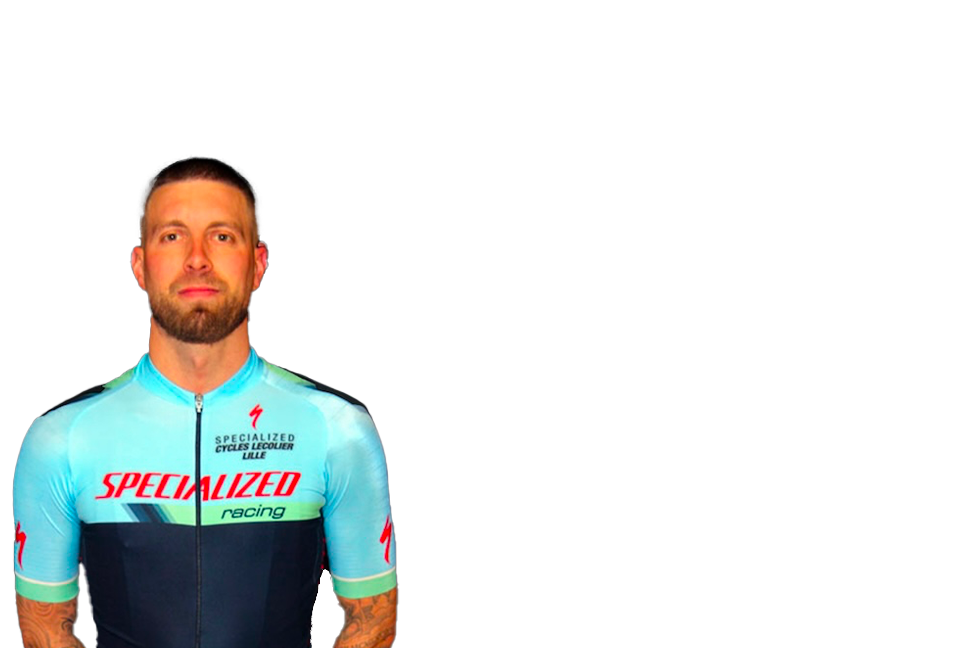
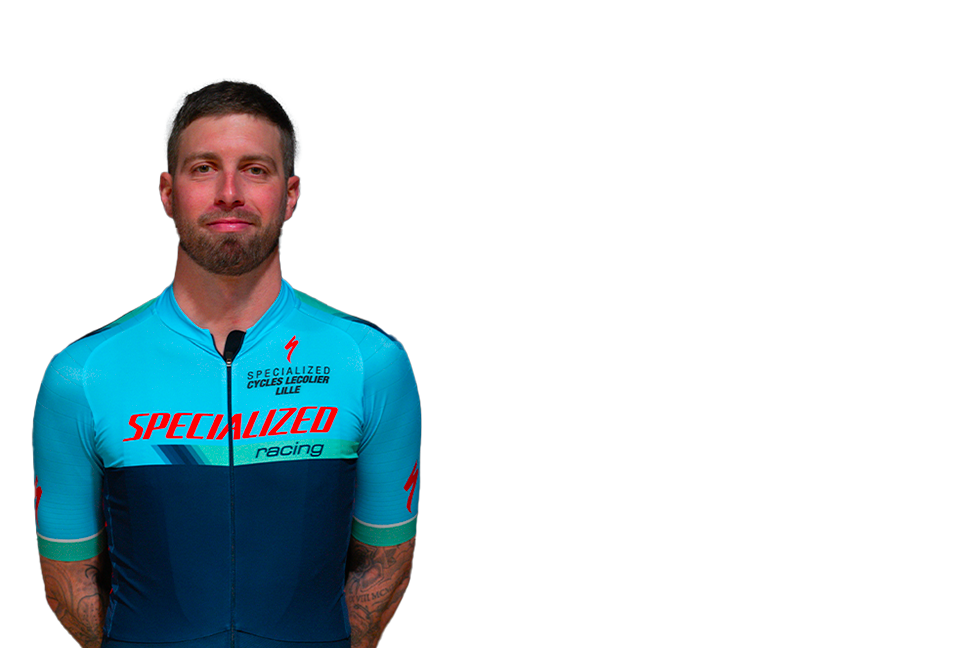
New coureur pictures

Changed region(s): [[0.0, 0.1235, 0.4321, 1.0]]

diff --git a/_coureurs/ORBIERAXEL.md b/_coureurs/ORBIERAXEL.md
@@ -4,10 +4,10 @@ layout: coureurs-single
 title: ORBIER AXEL
 name: ORBIER AXEL
 sports:  Cylo-Cross
-image: assets/imgs/team/small/empty.png
+image: assets/imgs/team/small/orbier_axel.png
 strava: https://www.strava.com/athletes/20939373
 # full details
-large: assets/imgs/team/large/empty.png
+large: assets/imgs/team/large/orbier_axel.png
 
 live_preview: https://bslthemes.com
 date_of_birth: 14/08/1996

diff --git a/_coureurs/DERASSEPATRICK.md b/_coureurs/DERASSEPATRICK.md
@@ -3,9 +3,9 @@
 layout: coureurs-single
 title: DERASSE PATRICK
 name: DERASSE PATRICK
-image: assets/imgs/team/small/empty.png
+image: assets/imgs/team/small/derasse_patrick.png
 
-large: assets/imgs/team/large/empty.png
+large: assets/imgs/team/large/derasse_patrick.png
 
 strava: https://www.strava.com/athletes/104406709
 gallery:

diff --git a/_coureurs/DEFEROLIVIER.md b/_coureurs/DEFEROLIVIER.md
@@ -4,8 +4,8 @@ layout: coureurs-single
 title: DEFER OLIVIER
 name: DEFER OLIVIER
 
-image: assets/imgs/team/small/empty.png
-large: assets/imgs/team/large/empty.png
+image: assets/imgs/team/small/defer_olivier.png
+large: assets/imgs/team/large/defer_olivier.png
 
 # full details
 strava: https://www.strava.com/athletes/33163192

diff --git a/_coureurs/DEFOSSEHERVE.md b/_coureurs/DEFOSSEHERVE.md
@@ -3,8 +3,8 @@
 layout: coureurs-single
 title: DEFOSSE HERVE
 name: DEFOSSE HERVE
-image: assets/imgs/team/small/empty.png
-large: assets/imgs/team/large/empty.png
+image: assets/imgs/team/small/defosse_herve.png
+large: assets/imgs/team/large/defosse_herve.png
 
 # full details
 live_preview: https://bslthemes.com

diff --git a/_coureurs/BROUTINANTOINE.md b/_coureurs/BROUTINANTOINE.md
@@ -3,8 +3,8 @@
 layout: coureurs-single
 title: BROUTIN ANTOINE
 name: BROUTIN ANTOINE
-image: assets/imgs/team/small/empty.png
-large: assets/imgs/team/large/empty.png
+image: assets/imgs/team/small/broutin_antoine.png
+large: assets/imgs/team/large/broutin_antoine.png
 date_of_birth: 01/12/1994
 
 sports: Route

diff --git a/_coureurs/DUFOURJULIEN.md b/_coureurs/DUFOURJULIEN.md
@@ -4,7 +4,7 @@ layout: coureurs-single
 title: DUFOUR JULIEN
 name: DUFOUR JULIEN
 
-image: assets/imgs/team/small/dufour_julien.jpeg
+image: assets/imgs/team/small/dufour_julien.png
 large: assets/imgs/team/large/dufour_julien.png
 nationality: fr
 date_of_birth: 09/08/1988
